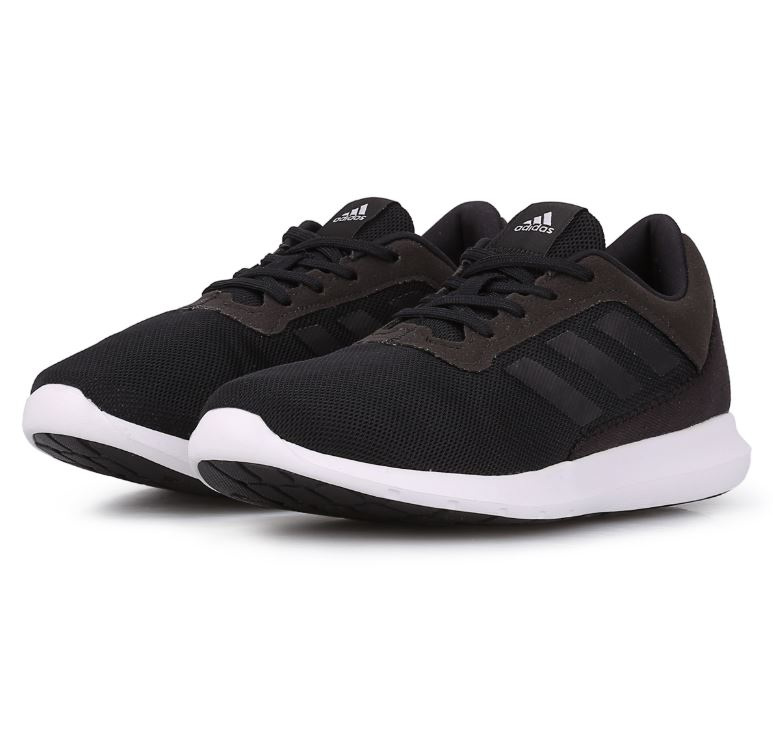
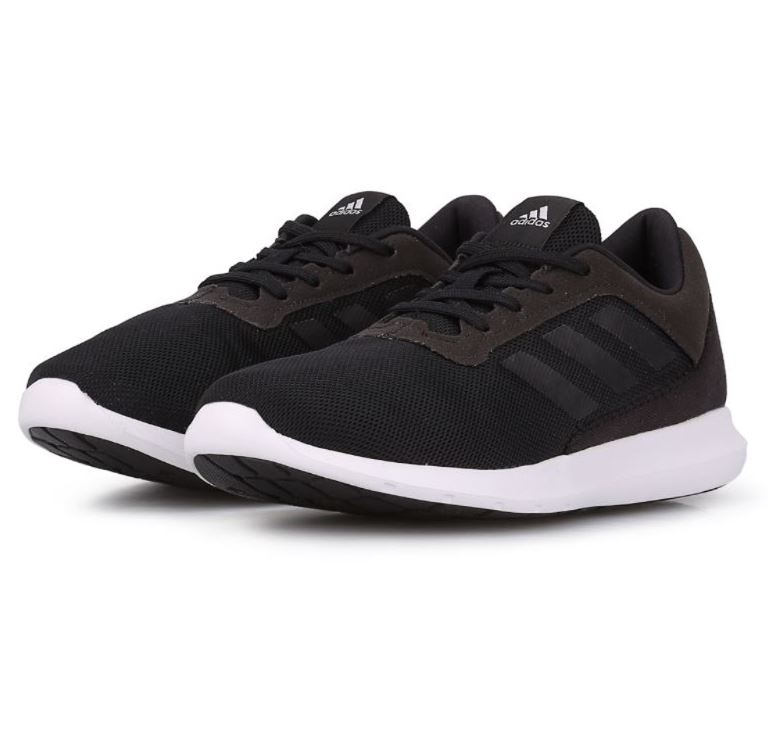
Centrado en CSS

diff --git a/src/index.css b/src/index.css
@@ -42,6 +42,7 @@ header p span {
 .producto {
   padding: 50px ;
   width: 350px;
+  height: auto;
   border-radius: 10px;
   display: flex;
   flex-direction: column;
@@ -52,6 +53,11 @@ header p span {
   box-shadow: 5px 5px 5px 2px rgba(14, 7, 29, 0.75);
 }
 
+.producto img{
+  width: 200px;
+  height: 200px;
+  margin: auto;
+}
 
 .producto h5{
   text-align: center;
